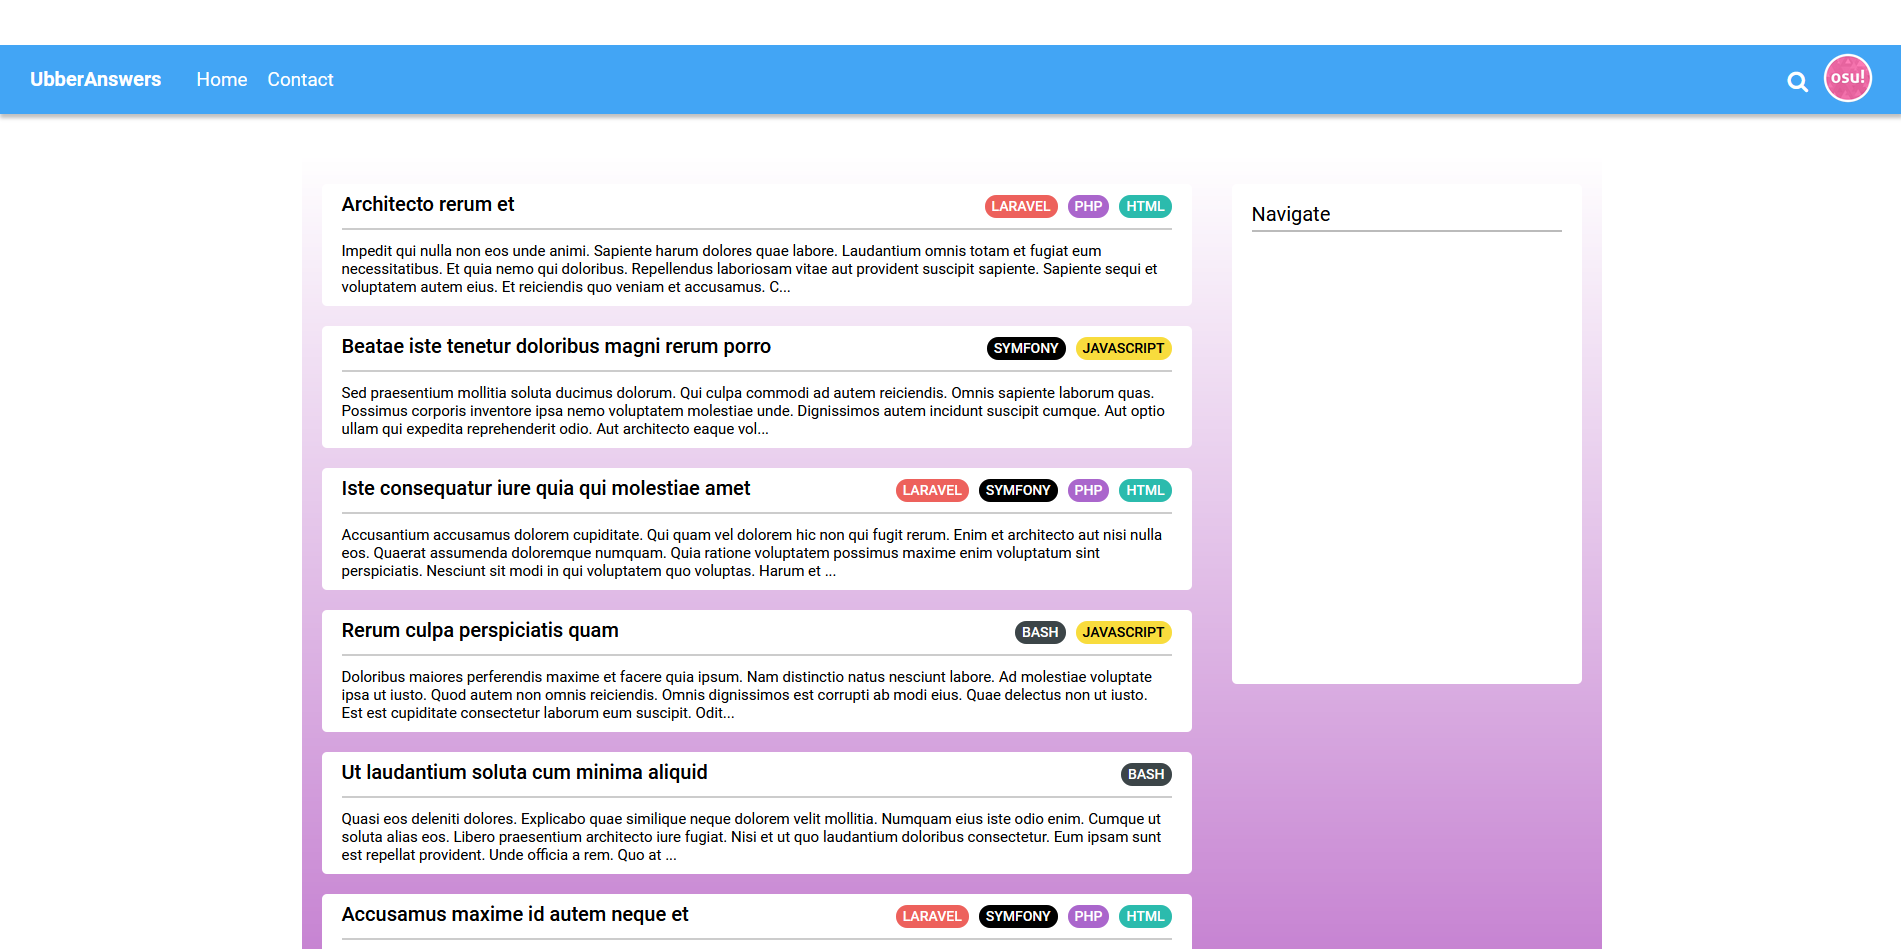
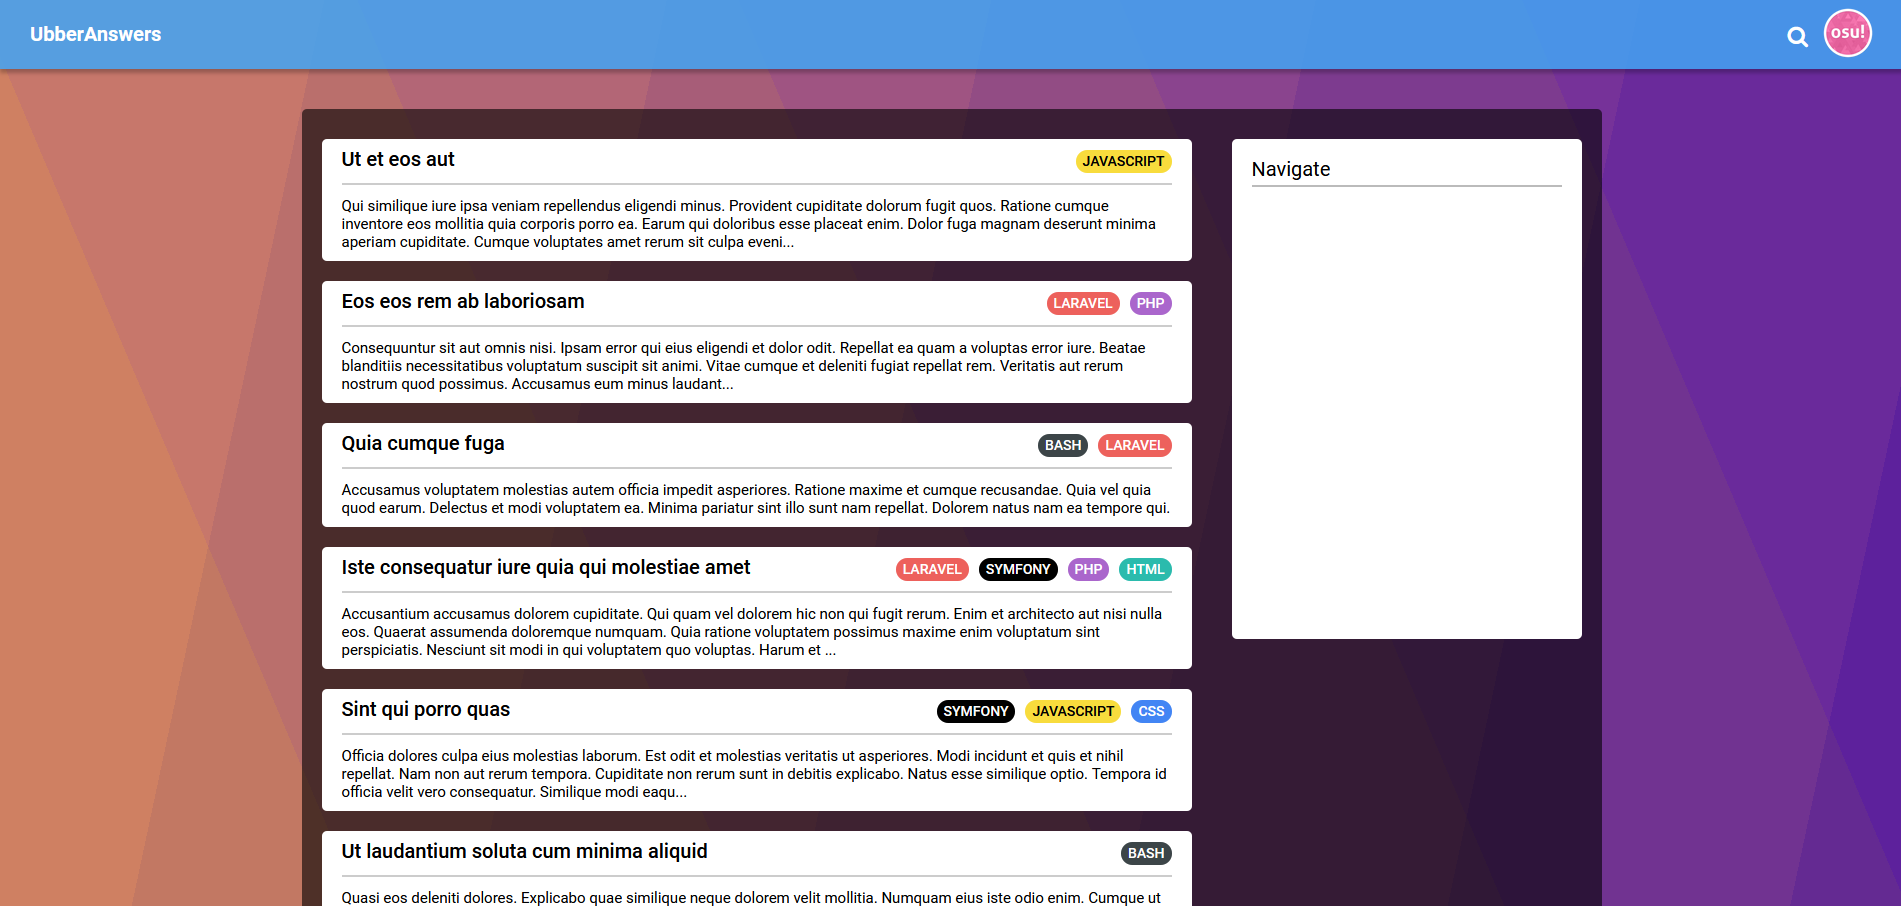
Removed unnecessary links in header and change background color

diff --git a/assets/scss/base/_base.scss b/assets/scss/base/_base.scss
@@ -2,6 +2,10 @@
   box-sizing: border-box;
 }
 
+body {
+  background: linear-gradient(282deg, rgba(100, 58, 138, 0.5) 0%, rgba(100, 58, 138, 0.5) 14.286%,rgba(125, 75, 135, 0.5) 14.286%, rgba(125, 75, 135, 0.5) 28.572%,rgba(150, 92, 132, 0.5) 28.572%, rgba(150, 92, 132, 0.5) 42.858%,rgba(176, 109, 129, 0.5) 42.858%, rgba(176, 109, 129, 0.5) 57.144%,rgba(201, 126, 125, 0.5) 57.144%, rgba(201, 126, 125, 0.5) 71.43%,rgba(226, 143, 122, 0.5) 71.43%, rgba(226, 143, 122, 0.5) 85.716%,rgba(251, 160, 119, 0.5) 85.716%, rgba(251, 160, 119, 0.5) 100.002%),linear-gradient(247deg, rgb(86, 8, 174) 0%, rgb(86, 8, 174) 14.286%,rgb(101, 26, 154) 14.286%, rgb(101, 26, 154) 28.572%,rgb(117, 43, 135) 28.572%, rgb(117, 43, 135) 42.858%,rgb(132, 61, 115) 42.858%, rgb(132, 61, 115) 57.144%,rgb(147, 79, 95) 57.144%, rgb(147, 79, 95) 71.43%,rgb(163, 96, 76) 71.43%, rgb(163, 96, 76) 85.716%,rgb(178, 114, 56) 85.716%, rgb(178, 114, 56) 100.002%);
+}
+
 a {
   text-decoration: none;
   color: $color-text-alt;

diff --git a/assets/scss/components/_navbar.scss b/assets/scss/components/_navbar.scss
@@ -1,26 +1,7 @@
 .navbar {
 
-  &__logo,
-  &__links,
-  &__links li {
-    display: inline-block;
-  }
-
   &__logo {
     font-weight: bold;
     margin-right: 1.5em;
-  }
-
-  &__links {
-    font-size: 0.95em;
-
-    li + li {
-      margin-left: 0.8em;
-    }
-
-    li a:hover,
-    li a.active {
-      @include white-border;
-    }
   }
 }

diff --git a/assets/scss/layout/_header.scss b/assets/scss/layout/_header.scss
@@ -3,9 +3,9 @@
   justify-content: space-between;
   align-items: center;
 
-  background-color: $color-brand;
+  background-color: transparentize($color-brand, 0.15);
   padding: 0.4em 1.5em;
-  box-shadow: 0px 4px 4px rgba(0, 0, 0, 0.25);
+  box-shadow: 0 4px 4px rgba(0, 0, 0, 0.25);
 
   min-height: 70px;
 }

diff --git a/assets/scss/layout/_wrapper.scss b/assets/scss/layout/_wrapper.scss
@@ -3,7 +3,7 @@
   max-width: 1300px;
   display: flex;
   background: rgb(171,71,188);
-  background: linear-gradient(0deg, rgba(171,71,188,1) 0%, rgba(186,104,200,1) 55%, rgba(255,255,255,1) 100%);
+  background: rgba(0, 0, 0, 0.6);
   border-radius: 5px;
 
   &__content {
